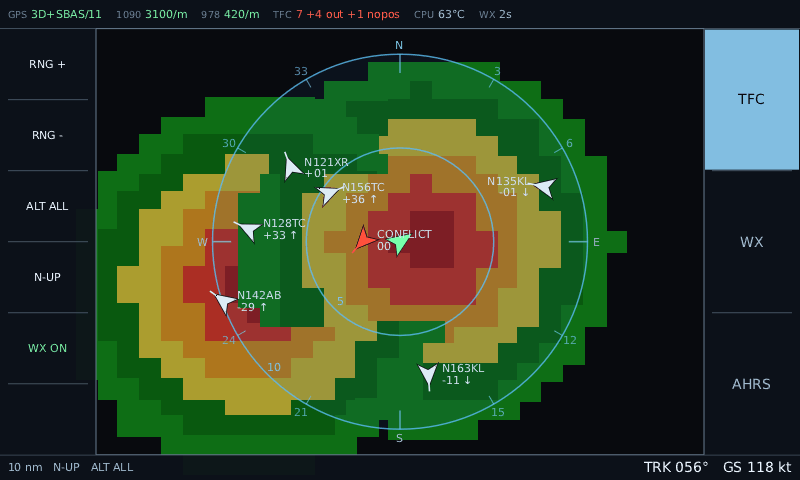
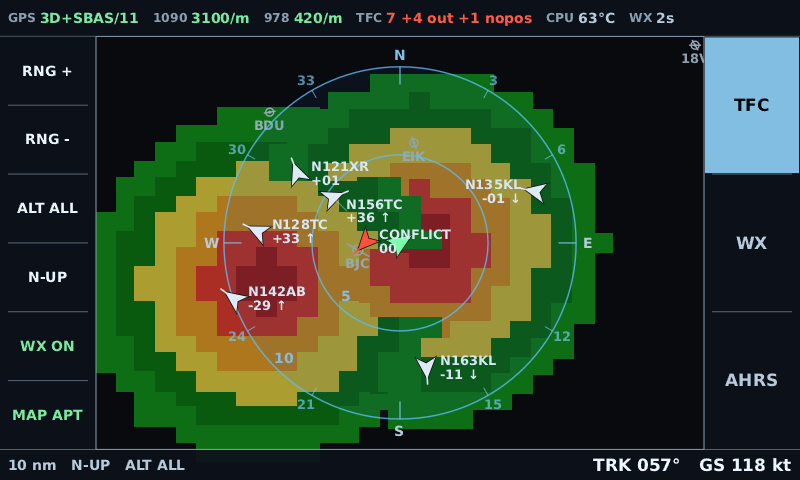
Refresh the README's screenshots and say how the display works
Six of the eight panel shots predated the six-key strip and the map
layer: they showed five function keys with no MAP, and no airport
symbols. The README claims every image is "a real frame rendered by the
shipping code", so they all had to be retaken.

Regenerated: both plan-view culls, the live outdoor replay, the AHRS
page, both New York density shots, and the two weather pages. The
weather pair moved off New York — sorting is product-then-distance, so
anywhere with more than fifteen nearby METARs puts every TAF on page two
and the product column renders as a stripe of identical `M`s. Daytona
Beach on an afternoon with thunderstorms on the field gives fifteen
METARs and four TAFs, LIFR at KEVB in +TSRA FG, MVFR at KTIX, and K12N
with no category at all, so all four columns are visibly doing work.

Rewrote the two weather sections for the table and tap-to-decode, which
had landed in the code but never in the prose.

Corrected traffic counts that had drifted from their own images: the
text said `TFC 4 +5 out +2 alt` against a frame reading `4 +4 out +3 alt
+1 nopos`. Also replaced the gesture table's tap-to-scroll row, and
referenced docs/images/map-airspace-card.png, which was committed at
aa2659a and had never been linked from anything.

Added "How a frame gets to the panel": the ingest/render split, why
AppState and ViewState are separate, why dead reckoning happens at draw
time rather than on receipt, and why the draw order is page, status bar,
footer, strips.
[…]

diff --git a/crates/avionics/src/main.rs b/crates/avionics/src/main.rs
@@ -587,7 +587,7 @@ fn run_window(_args: &Args, _state: Shared) -> Result<()> {
 #[cfg(feature = "desktop")]
 const DESKTOP_KEYS: &str = "\
 Interactive harness
-  left click     tap        (status bar switches page; body cycles range / scrolls weather)
+  left click     tap        (soft keys; a weather row to decode it; an airport for its card)
   right click    two-finger tap (north-up <-> track-up)
   r / R          range up / down
   a              cycle the vertical filter

diff --git a/README.md b/README.md
@@ -41,7 +41,9 @@ frame rendered by the shipping code; see [regenerating these](#regenerating-the-
 Own-ship centred, range rings, a fully labelled compass rose, and target tags carrying
 callsign and relative altitude in hundreds of feet with a climb/descend arrow. The red symbol
 is a conflict — co-altitude and closing. Underneath is the FIS-B NEXRAD precipitation mosaic,
-drawn as one texture rather than ten thousand paths.
+drawn as one texture rather than ten thousand paths, and beneath that again the airport layer —
+`BJC`, `BDU` and `EIK`, which is what `MAP APT` on the sixth key means. That is the display as it
+comes up: this frame has had nothing selected on it.
 
 The **top bar** answers "is this thing actually working?": GPS fix and satellite count, the
 per-radio message rate for 1090 and 978, traffic counts including targets culled or held back,
@@ -55,13 +57,15 @@ rather than as three columns with text loose at the bottom.
 ### The two culls
 
 `RNG` selects how far out to look; `ALT` selects how far up and down. Above is the default
-`ALT NRM` band, ±2700 ft — `TFC 4 +5 out +2 alt` says four targets drawn, five beyond the ring,
-two outside the band. Below is the same scene with `ALT ALL`, and the two aircraft at +36 and
-+33 are back:
+`ALT NRM` band, ±2700 ft — `TFC 4 +4 out +3 alt +1 nopos` says four targets drawn, four beyond the
+ring, three outside the band, and one heard without a position at all. Below is the same instant
+with `ALT ALL`, and the three aircraft at +36, +33 and −29 are back:
 
 ![The same scene with the vertical filter opened up to unrestricted](docs/images/plan-view-unfiltered.png)
 
-The counts always partition: `drawn + out + alt` is the same number whichever band is selected.
+The counts always partition: `drawn + out + alt` is the same number whichever band is selected —
+4+4+3 above, 7+4 below, eleven either way, with the one non-positional target counted separately
+because it was never a candidate for either cull.
 Both the key and the footer readout turn amber only while the filter is *actually* withholding
 something, which is why they are amber in the first image and not the second. See
 [the vertical filter](#the-vertical-filter) for what it will and will not hide.
@@ -70,44 +74,85 @@ something, which is why they are amber in the first image and not the second. Se
 
 ![Plan view replaying the first outdoor capture, plotting a real airliner](docs/images/plan-view-live.png)
 
-The first real-world capture, replayed: a genuine 3D GPS fix (`GPS 3D/13`) and a real ADS-B
+The first real-world capture, replayed: a genuine 3D GPS fix (`GPS 3D/8`) and a real ADS-B
 target — `RPA3412 +107 ↑`, Republic Airways, 10,700 ft above and climbing. `978 0/m` in red and
 `NO weather` are correct and expected on the ground; FIS-B is line-of-sight from ground stations
-aimed at aircraft.
+aimed at aircraft. The unlabelled rings at the edges are airports: past 10 nm the map layer draws
+the symbol and drops the identifier, because at 40 nm the labels would be competing with traffic
+tags and traffic wins.
 
 Note `ALT ALL`. At 10,700 ft above, this target is outside the default `ALT NRM` band — under the
-default the same frame reads `TFC 0 +1 alt` with an empty ring and an amber `ALT NRM`, which is a
-fair illustration of what the vertical filter does on the ground, where everything you hear is
-far overhead.
+default the same frame reads `TFC 0 +1 alt +1 nopos` with an empty ring and an amber `ALT NRM`,
+which is a fair illustration of what the vertical filter does on the ground, where everything you
+hear is far overhead.
 
 ### Weather text
 
-![FIS-B text page listing live METARs, nearest station first](docs/images/weather-raw.png)
+![FIS-B text page as a table: station, product, flight category, report](docs/images/weather-raw.png)
 
-**Nearest station first**, which is the whole reason this page is readable. It used to sort
-alphabetically: with 33 reports on board over New York, `KMMU` — the field own-ship was sitting on
-— came *tenth*, behind Allentown, Bridgeport and Danbury, purely because of its spelling. The chart
-carries a position for every ICAO station, so the display sorts by distance and shows it.
+**A table, one row per report, four fixed columns**: station, product, flight category, report.
+Real observations over Daytona Beach, pulled from aviationweather.gov moments before this was
+rendered, with afternoon convection on the field — `KDAB` is reporting `-TSRA`, `KEVB` nine miles
+away is `LIFR` in `+TSRA FG`, and `KTIX` is `MVFR`.
 
-The station leads the row in the brightest colour on it. Every row used to begin with the word
-`METAR`, identical and eleven characters wide, so the eye landed on the one thing that was the same
-everywhere. The body no longer repeats the product and station either — the heading already says
-both, and that was eleven more characters of the left edge spent on a repeat.
+Fifteen reports fit on the panel. Nine used to, because each report took two lines — a heading
+above its body — and every field started wherever the previous one happened to end. That is what
+made the page unscannable, and it is why the columns are fixed rather than flowed: a pilot looking
+for one airport reads *down* the first column, and a pilot checking whether anything is IFR reads
+down the third.
 
-Real observations, pulled from aviationweather.gov moments before this was rendered. Newest first,
-each carrying **its own age** — delivery is opportunistic, so one station can be twenty minutes
-stale while its neighbour is current and nothing on the wire warns you. Hazards are highlighted
-inside the raw text and the flight category is badged (`VFR` here, green).
+`METAR` becomes `M` and `TAF` becomes `T`, which works **only** because the column is fixed. A
+bare `M` in flowing text would be ambiguous; at a known x it is not. The body drops its own
+`METAR KDAB` prefix for the same reason — eleven characters of the most valuable space on the row,
+the left edge where the eye lands, spent repeating what the two columns to its left have just
+said. The issue time stays, being the one part of the prefix that is not already on the row.
+
+The column widths are **measured from the headings actually on the page**, not from a constant.
+Three cheaper attempts failed: a per-character estimate, then a fixed 54 px, then measuring a
+synthetic `MMMM` worst case — the last still let `KHPN`, `KBLM` and `KOQN` touch the product
+letter. The reasoning is recorded in `weatherpage.rs` so the next person does not retry a constant.
+
+Sorting is **by product, then nearest first**. It used to be alphabetical: with 33 reports on board
+over New York, `KMMU` — the field own-ship was sitting on — came *tenth*, behind Allentown,
+Bridgeport and Danbury, purely because of its spelling. The chart carries a position for every ICAO
+station, so the display sorts by distance and shows it in the right-hand margin. Product comes
+first because a pilot reaching for weather wants observations before forecasts, which is why the
+four TAFs sit below every METAR here even though `KDAB`'s TAF is for the field underneath.
+
+Each report carries **its own age**, because FIS-B delivery is opportunistic — one station can be
+twenty minutes stale while its neighbour is current, and nothing on the wire warns you. Hazards
+keep their colour inside the raw text. `K12N` shows what an empty category column looks like: not
+every station publishes one, and a blank is the honest answer.
+
+The cost is the report body, which now gets about 43 characters before it is cut with `…` instead
+of the roughly 63 a full-width second line gave it. That is the trade the table makes, and it is
+the right one only because tapping the row opens the whole thing.
 
 ### Weather, decoded
 
-![A live TAF expanded into a glossary of its abbreviations](docs/images/weather-decoded.png)
+![A live METAR expanded into a glossary of its abbreviations](docs/images/weather-decoded.png)
 
-The `DECODE` soft key expands the selected report into every abbreviation it contains, including
-the structured groups — `021740Z` resolves through `Z`, `16012KT` through `KT`, `P6SM` through `P`
-and `SM`. Sourced from the NWS METAR/TAF card and FMH-1 chapter 5. This is a real KABE forecast
-carrying `TSRA`, and the hazard keeps its colour in the expansion so the eye lands on the same
-thing twice.
+**Tap a row and it opens.** The report is shown in full — nothing truncated, remarks and all —
+above every abbreviation it contains, including the structured groups: `042153Z` resolves through
+`Z`, `11005KT` through `KT`, `SCT035CB` through `SCT` and `CB`. Sourced from the NWS METAR/TAF card
+and FMH-1 chapter 5, and laid out in two columns once a report carries more terms than one column
+holds — this KDAB observation carries twenty-four.
+
+The hazard keeps its colour in the expansion, so `TS` is red in the glossary exactly as `-TSRA` was
+red in the raw text and the eye lands on the same thing twice.
+
+Tapping is what makes this reachable. `DECODE` on the key strip opens whichever report the list is
+scrolled to, which meant scrolling to an airport and then pressing a key; a tap goes straight there
+from the row that names it. Any tap on the decoded page goes back, and it returns to **the page of
+the list you left**, not to the top — the round trip through a report costs you nothing.
+
+This is one of only two body taps on the display — the other is
+[tapping an airport](#tapping-an-airport) — and both are the same bargain. Everywhere else the body
+is inert on purpose, for the reason under [Controls](#controls): the plan view must not change
+range because a hand steadied itself against the panel in turbulence. What these two have in
+common is that they are **aimed at something and reversible**: they change no selection, hide
+nothing, and the next tap undoes them. An aimed target with no affordance is one the pilot never
+finds, and the alternative is not "no gesture" but "a gesture nobody knows".
 
 ### Attitude
 
@@ -170,25 +215,6 @@ one lookup. What it needed was the chart to carry the **ICAO** identifier: METAR
 and the symbol says `MMU`, and deriving one from the other by prepending `K` is right most of the
 time and silently wrong sometimes — which here means showing another airport's weather.
 
-Tapping **inside an airspace boundary** shows what is stacked over that point instead — `D TEB
-SFC - 2500 ft`, `B JFK 1800 - 7000 ft`, lowest floor first, which is the order you meet them
-climbing. It prints the numbers and never says whether you are inside one: own-ship altitude comes
-from GPS, which scattered 356 ft while sitting still during the outdoor capture, or from a pressure
-sensor on the 29.92 datum. Airspace floors are MSL and compliance is your altimeter on local QNH,
-which this box does not have. The card gives you the number to check against it.
-
-**Tapping is the only thing the plan-view body responds to**, and it was inert on purpose: a hand
-steadying itself against the panel in turbulence must not change the range or the heading reference.
-A card changes no selection, hides no traffic, needs a tap within 18 px of a symbol to open, is
-dismissed by any next tap, and lapses by itself after 20 seconds. The reasoning is in
-[the design note](docs/airspace-and-airports.md#tapping-an-airport-and-the-rule-it-bends).
-
-The data is built by [`tools/chartdata`](tools/chartdata) from the FAA's own `US_Airport`,
-`Runways` and `Class_Airspace` layers, with communication frequencies from OurAirports — all
-public domain — see [docs/airspace-and-airports.md](docs/airspace-and-airports.md)
-for the measurements behind every threshold, including why a Class D arrives as 3,256 vertices and
-leaves as 84, and why the frequency file stores kilohertz.
-
 ### Controls
 
 The key strips are the primary interface. Labels are redrawn every frame and toggles are
@@ -232,8 +258,10 @@ the design to, and eight would be 53.3 px, which does not.
 
 | Gesture | Effect |
 | --- | --- |
-| Tap the body, weather page | page the list — lower half forward, upper half back |
-| Tap the body, plan view / AHRS | **nothing, on purpose** |
+| Tap a weather row | open that report, decoded |
+| Tap the decoded page | back to the page of the list you left |
+| Tap an airport or airspace, plan view | open its card |
+| Tap the plan-view body elsewhere, or the AHRS body | **nothing, on purpose** |
 | Tap the status bar | **nothing, on purpose** |
 | Two-finger tap | north-up ↔ track-up |
 
@@ -243,24 +271,32 @@ plan-view body used to cycle the range ring, until `RNG` existed. The status bar
 pages, until the page strip did — three 151 px keys need no fallback, and the old behaviour made
 the entire top edge of the panel a page-change target.
 
+The weather page used to page the list on a body tap, and that is gone too — for the third time
+the same test: what does the gesture cost if it fires by accident? Paging the list moves everything
+the pilot was reading. Opening a report changes no selection, hides nothing, and any next tap
+undoes it. So the two body taps that survive are the two that are **aimed at something and
+reversible**, and both are the only affordance their target has.
+
+A tap resolves to a row through the same geometry that drew it — `row_center` is used by both the
+drawing code and the hit test, so a tap cannot land on a row that is not where it was painted.
+That is not theoretical tidiness: this codebase has already been bitten by a soft-key test probing
+a hard-coded `y`, and by a bug where every touch resolved to the top of the screen.
+
 ### Regenerating the screenshots
 
-No Pi required — the offscreen presenter renders the identical frames headlessly.
+No Pi required — the offscreen presenter renders the identical frames headlessly. **Run these from
+the repo root**: with no `--chart`, the display looks beside the binary and then for the repo copy,
+and from anywhere else it logs `no chart file found` and draws no airports.
 
 ```sh
-cargo build --release -p avionics -p replay
+cargo build --release -p avionics -p replay -p mock-stratux
 ./target/release/replay synth /tmp/synth.jsonl --duration 240 --targets 10 --conflict --seed 7
 
+# frame 320 is the pair in "the two culls" — same seed, same frame, same scene both ways:
 ./target/release/avionics --replay /tmp/synth.jsonl --speed 8 --offscreen \
     --out /tmp/shots/plan --frames 400 --dump-every 80 --range 10
 ./target/release/avionics --replay /tmp/synth.jsonl --speed 8 --offscreen \
     --out /tmp/shots/plan-all --frames 400 --dump-every 80 --range 10 --alt-filter all
-./target/release/avionics --replay /tmp/synth.jsonl --speed 8 --offscreen \
-    --out /tmp/shots/wx   --frames 400 --dump-every 80 --weather-page
-./target/release/avionics --replay /tmp/synth.jsonl --speed 8 --offscreen \
-    --out /tmp/shots/wxd  --frames 400 --dump-every 80 --weather-page --decode
-./target/release/avionics --replay /tmp/synth.jsonl --speed 8 --offscreen \
-    --out /tmp/shots/ahrs --frames 400 --dump-every 80 --ahrs-page
 
 # the map layer — the synth session starts at Broomfield CO, under the Denver Class B:
 ./target/release/avionics --replay /tmp/synth.jsonl --offscreen \
@@ -276,18 +312,49 @@ cargo build --release -p avionics -p replay
     --alt-filter all
 ```
 
-The weather and attitude shots above come from `--internet` rather than from synth, because real
-reports and a real airborne state beat a fixture:
+The weather and attitude shots come from `--internet` rather than from synth, because real reports
+and a real airborne state beat a fixture. New York for traffic density, and wherever the weather
+actually is for the weather page — the shots above are Daytona Beach on an afternoon with
+thunderstorms on the field:
 
 ```sh
-cargo run --release -p mock-stratux -- --internet --fly 090@110 &
-./target/release/avionics --host 127.0.0.1 --port 8080 --offscreen \
-    --out /tmp/shots/net --frames 240 --dump-every 230 --range 20
+./target/release/mock-stratux --internet --lat 40.7784 --lon -74.3343 --radius 80 --fly 090@110 &
+./target/release/avionics --host 127.0.0.1 --port 8080 --offscreen --range 20 \
+    --out /tmp/shots/nyc     --frames 400 --dump-every 399
+./target/release/avionics --host 127.0.0.1 --port 8080 --offscreen --range 20 --alt-filter all \
+    --out /tmp/shots/nyc-all --frames 400 --dump-every 399
+./target/release/avionics --host 127.0.0.1 --port 8080 --offscreen --ahrs-page \
+    --out /tmp/shots/ahrs    --frames 600 --dump-every 599
+
+./target/release/mock-stratux --internet --lat 29.1799 --lon -81.0581 --radius 45 --port 8092 &
+./target/release/avionics --host 127.0.0.1 --port 8092 --offscreen --weather-page \
+    --out /tmp/shots/wx  --frames 2000 --dump-every 1999
+./target/release/avionics --host 127.0.0.1 --port 8092 --offscreen --weather-page --decode \
+    --out /tmp/shots/wxd --frames 2000 --dump-every 1999
 ```
+
+Three things about those weather runs, all learned the hard way:
+
+- **`--port 8080`, not the default.** The display defaults to port 80, which is where a real
+  Stratux lives; the mock listens on 8080. Get this wrong and you render `STRATUX OFFLINE` and
+  spend a while wondering why.
+- **The frame counts are large because weather has to accumulate.** FIS-B broadcasts one product at
+  a time, and the mock faithfully does the same, so the page fills over minutes rather than
+  arriving in one frame. 2000 frames at the weather page's 8 fps is about four minutes, which was
+  enough for 19 of the 19 products on offer. A short run shows a nearly empty page, correctly.
+- **Radius decides what the first page looks like.** Sorting is product-then-distance, so a radius
+  wide enough to find more than fifteen METARs puts every TAF on page two. 45 nm around Daytona
+  gives fifteen METARs and four TAFs, which is what fits.
+
+To pick a *scrolled* page, or a report other than the nearest, there is no flag — those are taps,
+and the point of the tap work was that they should be.
 
 The plan-view shot with the NEXRAD underlay stays on synth: no free feed publishes FIS-B blocks.
 
-Output is PPM; convert with any of `pnmtopng`, ImageMagick, or Pillow.
+Output is PPM; convert with any of `pnmtopng`, ImageMagick, or Pillow. There is no `convert` on
+every box — `python3 -c "from PIL import Image; Image.open('a.ppm').save('a.png')"` always works.
+`--out` names a **directory** of frames, not a file; passing `--out shot.png` fails with
+`File exists`.
 
 `captures/` is gitignored — recordings are large and specific to one trip — so the last command
 needs a session pulled off the Pi first. See
@@ -363,7 +430,7 @@ device.
 | — | Soft-key strip + AHRS attitude page | **on the panel**; attitude sign conventions verified by tilting the box |
 | M7 | Airports + airspace map layer | **on the panel** — 18,108 airports, 1,408 Class B/C/D polygons, runway ticks, tap-to-inspect with frequencies and station weather; all from the FAA's own layers on one AIRAC cycle, measured on the real VC4 under GLES 2.0 |
 
-389 tests passing, clippy clean.
+395 tests passing, clippy clean.
 
 The honest summary: the *stack* is proven end to end on the target — cross-compile, KMS, GLES2,
 panel, touch, all five Stratux sockets, live 1090 MHz traffic, and frame cost measured on a
@@ -403,6 +470,44 @@ deploy/                 install, hardening and on-hardware test harnesses
 holds — so you cannot iterate on UI code on the dev machine against a real KMS surface. One trait,
 three implementations (KMS, winit window, offscreen), and everything above it sees only a
 `femtovg::Canvas`.
+
+### How a frame gets to the panel
+
+Two halves that share one mutex and nothing else.
+
+**The ingest half** is five Tokio tasks, one per Stratux socket, each with its own reconnect loop
+and its own staleness clock. Every decoded message becomes a `SourceEvent`, and a single fold
+applies it to **`AppState`** — the display's whole model of the world: own-ship, a map of targets
+by ICAO address, weather keyed by station, NEXRAD blocks, radio counters. Nothing in here knows
+about pixels, and nothing in here is derived from what is on screen.
+
+**The render half** is one thread that never blocks on the network:
+
+1. Drain any completed AHRS cage request (it runs on the Tokio side and answers through a channel,
+   so a slow Stratux cannot stall a frame).
+2. Retire the inspect card if its 20 seconds are up.
+3. Wait until this page's next frame is due — **polling touch throughout**, so a tap is noticed at
+   input rate even on the weather page's 8 fps budget — then apply whatever gestures arrived to
+   **`ViewState`**.
+4. Lock `AppState`, draw, unlock.
+5. Block on the DRM page flip, which is what actually paces the loop.
+
+The split between the two states is the load-bearing part. `AppState` is what was *received*;
+`ViewState` is what the pilot has *selected* — page, range, orientation, altitude band, map layers,
+weather scroll position, whether a report is expanded. Drawing is a function of the pair plus
+`now`, and holds no state of its own, which is why every page can be rendered headlessly from a
+recording and why the interaction tests need neither a canvas nor a device.
+
+`now` matters more than it looks. Dead reckoning happens **at draw time**, not on receipt: a target
+last heard 1.2 s ago is drawn 1.2 s along its reported track, capped at 3 s and dimmed while
+coasting. That is what keeps the picture alive at 30 fps against ~1 Hz updates without inventing a
+separate simulation to go stale in its own way.
+
+Drawing order inside a frame is deliberate and is enforced by the layering, not by convention:
+page content first, then the status bar, then the footer — the footer **after** the page because
+the NEXRAD underlay is one quad reaching the bottom edge of the panel and would paint over
+anything drawn first — and both key strips last of all. The page strip especially: it is the only
+way to change pages, so it must survive a drawing bug anywhere else.
 
 ### Which Stratux socket does what
 
@@ -934,6 +1039,12 @@ replay, per page:
 | AHRS (uncapped) | 60 fps | **2.72 ms** | 68.3 ms (frame 1) | **6.7 ms** | 16.3% |
 | Weather, decoded | 8 fps | **3.68 ms** | 141.7 ms (frame 1) | **7.4 ms** | 2.9% |
 | Weather, list | 8 fps | **4.09 ms** | 65.8 ms (frame 1) | **8.5 ms** | 3.3% |
+
+**The two weather rows predate the table**, which was built on 2026-08-04 and has not been timed on
+the Pi. The list now measures every heading on the page to place its columns — about fifteen extra
+`measure_text` calls a frame. That is CPU-side shaping rather than GL work, and against a 4.09 ms
+frame at 8 fps it should disappear, but "should" is not a measurement and this table only carries
+measurements.
 
 The map layer, measured the same way on 2026-08-03 but against the outdoor capture at 20 nm, so
 own-ship and the New York Class B are real:
